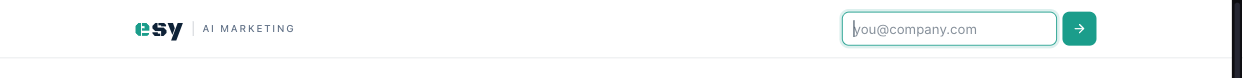
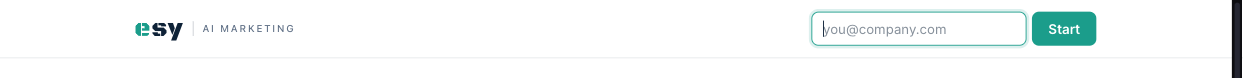
copy: the header's email box submits with Start

Changed region(s): [[0.642, 0.1026, 0.7949, 0.6154], [0.7949, 0.1026, 0.8866, 0.6154]]

diff --git a/src/components/LightHeader/HeaderSubscribe.tsx b/src/components/LightHeader/HeaderSubscribe.tsx
@@ -1,7 +1,7 @@
 'use client';
 
 import { useEffect, useRef, useState } from 'react';
-import { ArrowRight, MailCheck } from 'lucide-react';
+import { MailCheck } from 'lucide-react';
 import { EsyLoader } from '@/components/EsyLoader';
 import { useNewsletterSubscribe } from '@/hooks/useNewsletterSubscribe';
 
@@ -66,8 +66,9 @@ export default function HeaderSubscribe() {
           if (e.key === 'Escape' && !inputRef.current?.value) setOpen(false);
         }}
       />
-      <button type="submit" className="lh-sub-btn" disabled={isLoading} aria-label="Start the email course">
-        {isLoading ? <EsyLoader size={14} label="" /> : <ArrowRight size={16} aria-hidden="true" />}
+      {/* The button says what it does: "Start" (the email course). */}
+      <button type="submit" className="lh-sub-btn" disabled={isLoading}>
+        {isLoading ? <EsyLoader size={14} label="" /> : 'Start'}
       </button>
       {status === 'error' && errorMessage && (
         <p className="lh-sub-error" role="alert">{errorMessage}</p>

diff --git a/src/components/LightHeader/LightHeader.css b/src/components/LightHeader/LightHeader.css
@@ -84,8 +84,8 @@
 }
 .lh-sub-input:focus { outline: none; border-color: #00A896; box-shadow: 0 0 0 3px rgba(0, 168, 150, 0.15); }
 .lh-sub-btn {
-  display: inline-grid; place-items: center; width: 38px; height: 38px; border: 0; border-radius: 8px;
-  background: #00A896; color: #fff; cursor: pointer;
+  display: inline-grid; place-items: center; min-width: 72px; height: 38px; padding: 0 16px; border: 0; border-radius: 8px;
+  background: #00A896; color: #fff; font: inherit; font-size: 0.94rem; font-weight: 600; cursor: pointer;
 }
 .lh-sub-btn:disabled { opacity: 0.7; cursor: default; }
 .lh-sub-error {
